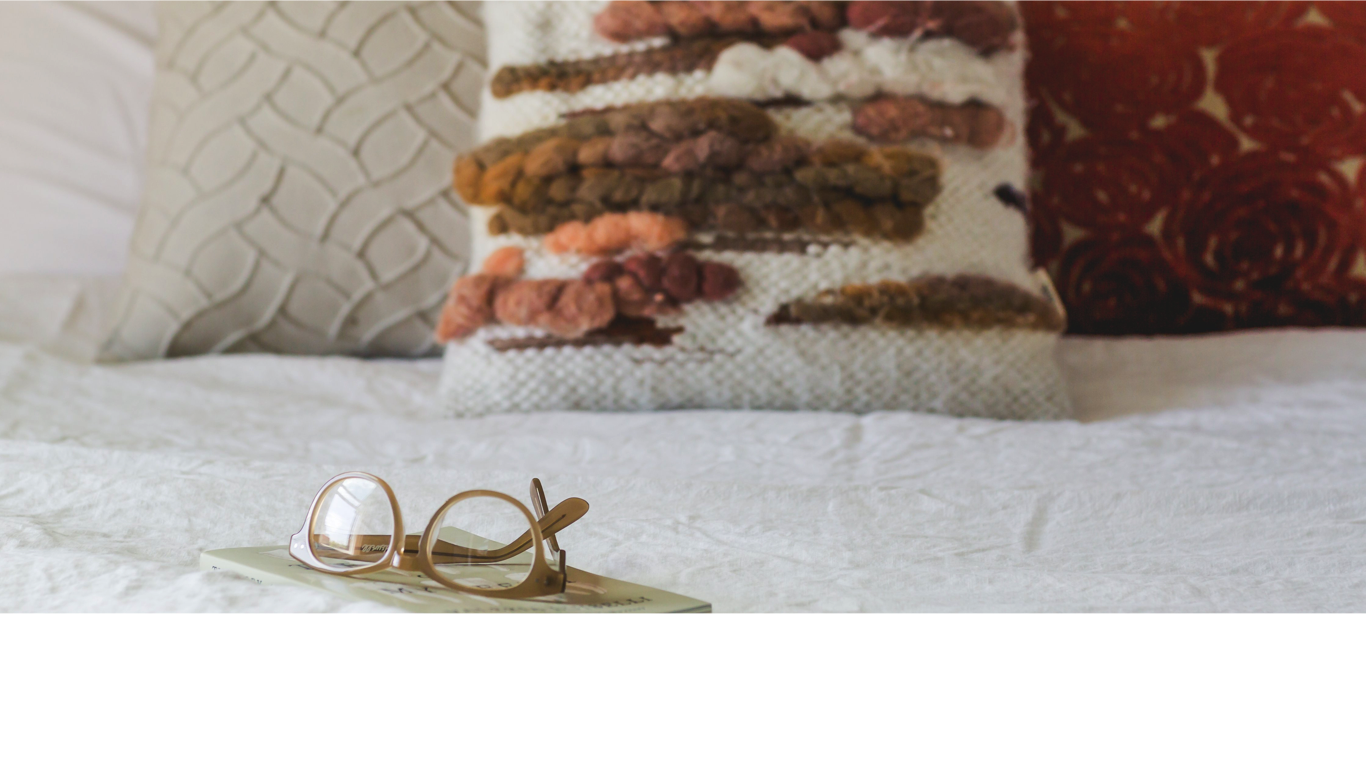
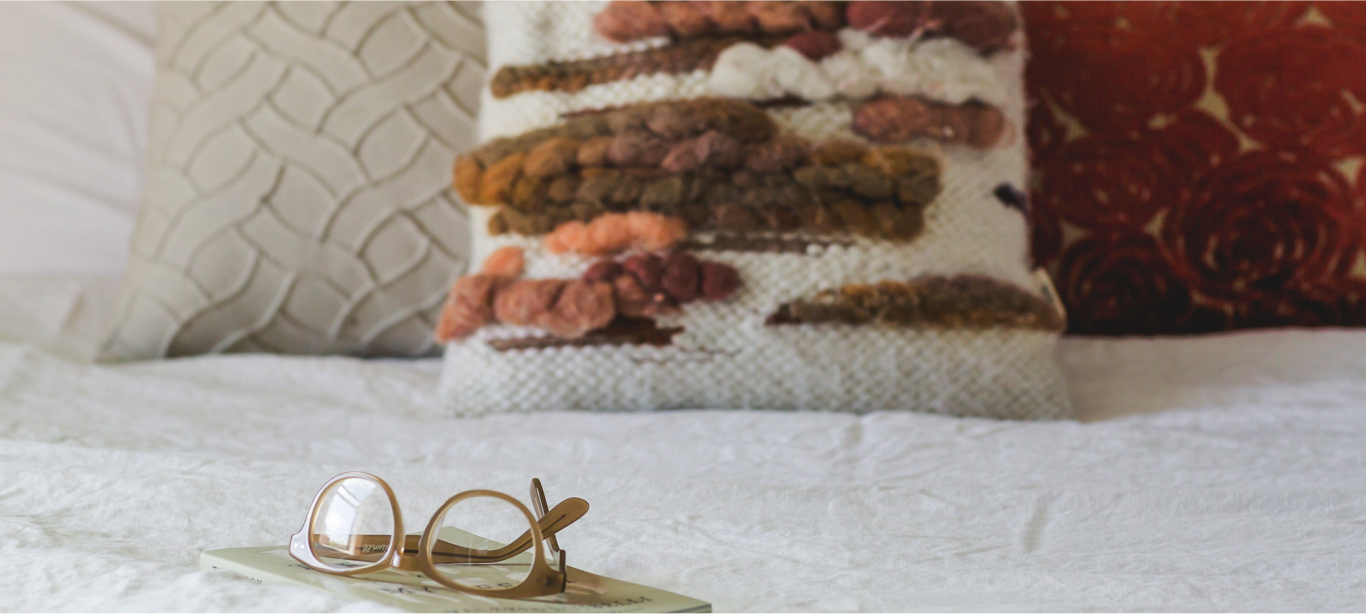
fussing

diff --git a/homework_5/fs_style.css b/homework_5/fs_style.css
@@ -3,6 +3,7 @@ body {
     margin-left: 50px;
     margin-right: 50px;
     background-image: url("glasses-pillows-on-bed.png");
+    background-repeat: no-repeat;
     background-color: #ffffff;
     color: #4a4a4a
    }
@@ -46,7 +47,7 @@ nav {
 
 section {
     display: grid;
-    grid-template: 515px 50px 50px 1fr / 813px 1fr;
+    grid-template: 505px 50px 50px 1fr / 813px 1fr;
     grid-template-areas: "a b"
                          "c d"
                          "e f"
